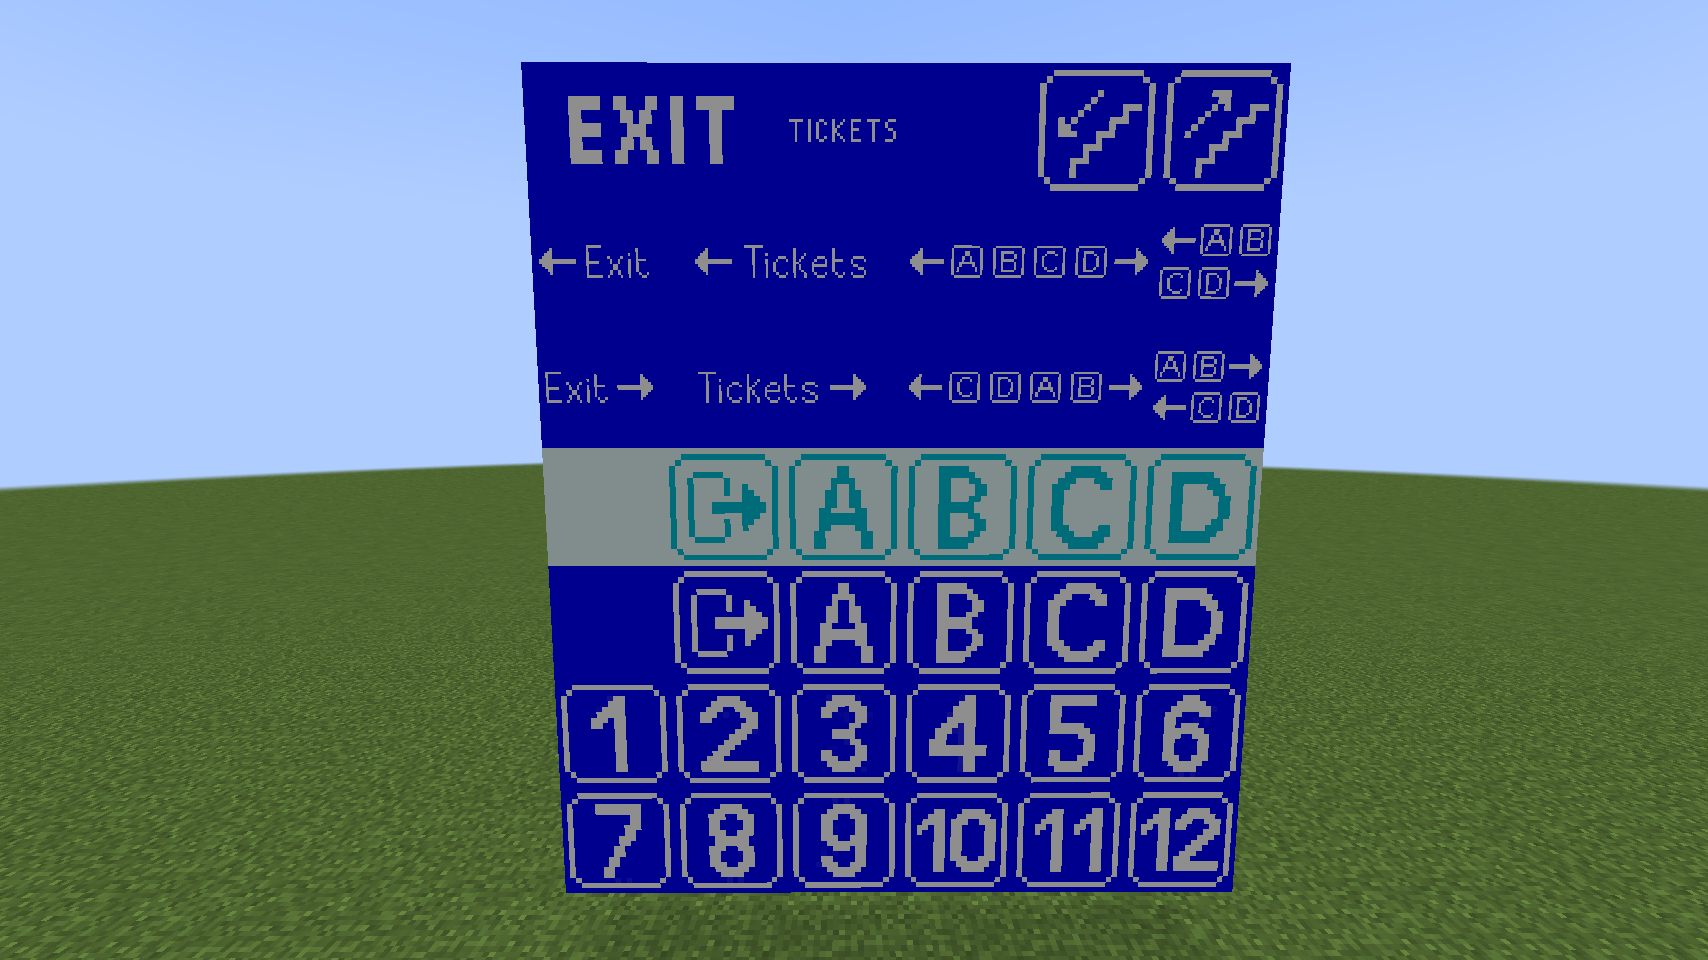
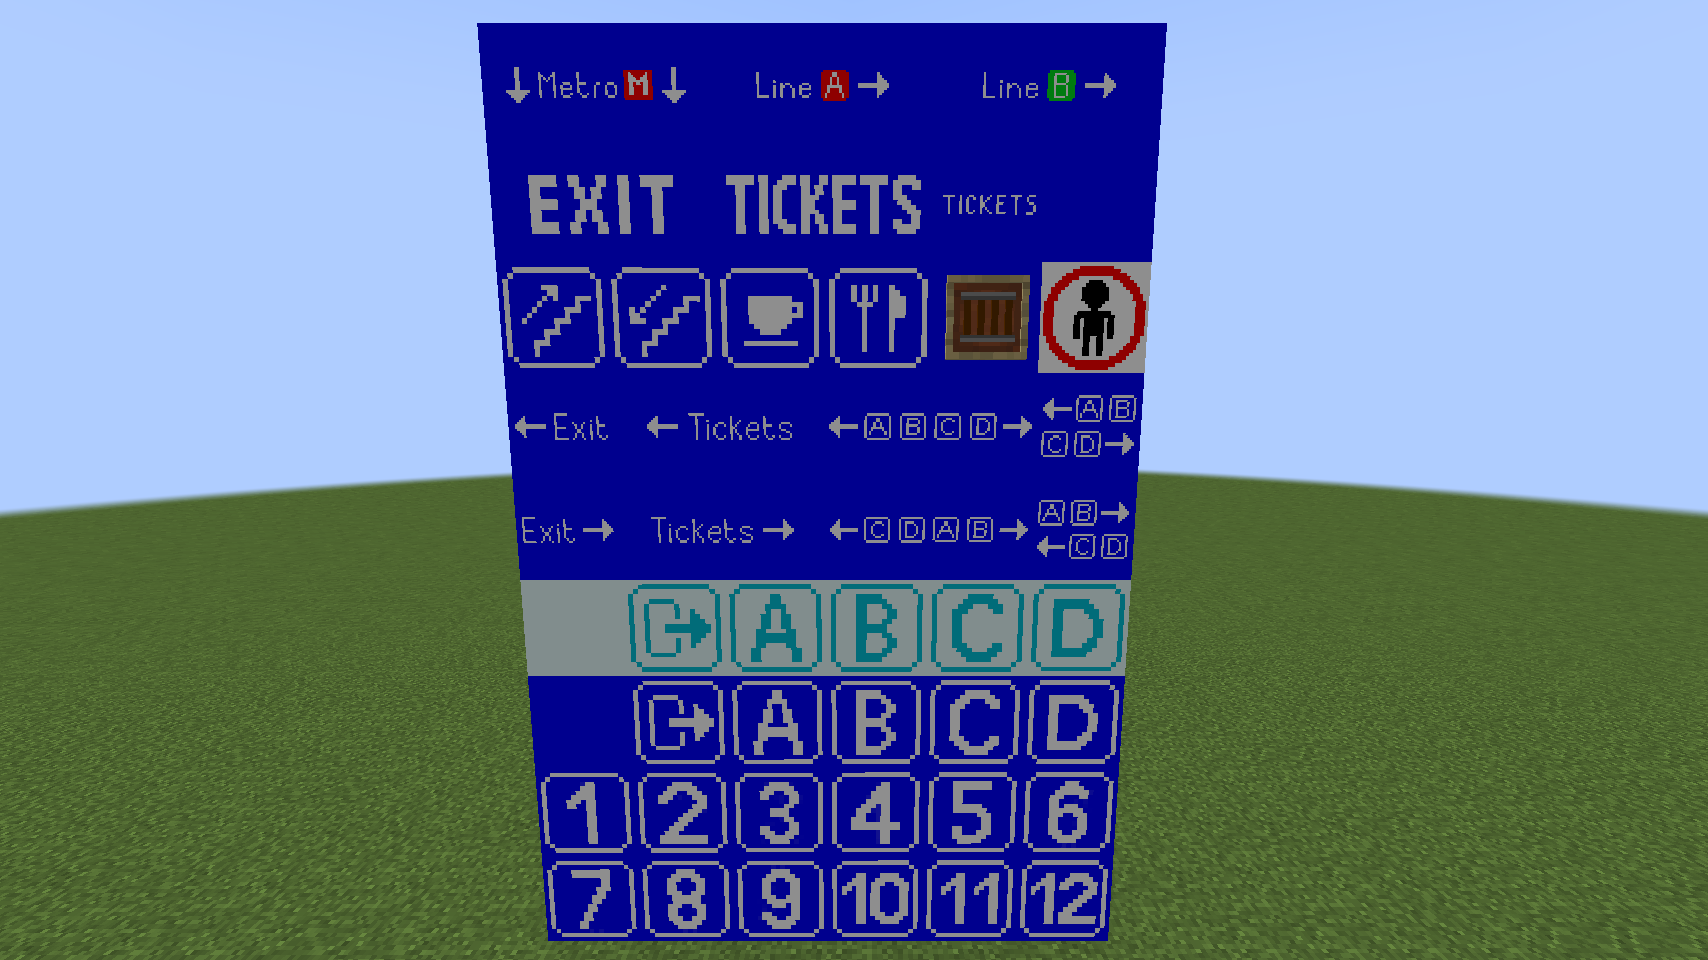
Updates

Changed region(s): [[0.0, 0.0, 1.0, 1.0]]

diff --git a/railwaydecorationsmod/index.html b/railwaydecorationsmod/index.html
@@ -53,13 +53,14 @@
     <li>Platform numbers 1-12</li>
     <li>Zone A-D signs (blue and white)</li>
     <li>Exit signs (blue and white)</li>
-    <li>Large exit sign</li>
+    <li>Large "exit" and "tickets" sign</li>
     <li>Zone A-D indicator signs (either 1 or 2 blocks wide)</li>
     <li>Tickets and Exit indicator signs</li>
     <li>Ticket booth sign</li>
     <li>Staircase signs (ascending and descending)</li>
     <li>Bar and Restaurant signs</li>
     <li>No entry sign</li>
+    <li>Metro station signs (metro entrance sign and lines A and B signs)</li>
   </ul>
 
   <h4>Planned features</h4>
@@ -72,7 +73,11 @@
 
   <h4>Downloads</h4>
   <p>
-    Version 1.0.0b (latest release): <a href="https://github.com/samuele963/railwaydecorationsmod/raw/main/releases/railway-decorations-1.0.0b.jar">Download</a><br>
+    Binary downloads and source files are all available on the <a href="https://github.com/samuele963/railwaydecorationsmod/">GitHub page</a> of the project.
+  </p>
+  <p>
+    Version 1.0.1 (latest release): <a href="https://github.com/samuele963/railwaydecorationsmod/raw/main/releases/railway-decorations-1.0.1.jar">Download</a><br>
+    Version 1.0.0b: <a href="https://github.com/samuele963/railwaydecorationsmod/raw/main/releases/railway-decorations-1.0.0b.jar">Download</a><br>
     Version 1.0.0: <a href="https://github.com/samuele963/railwaydecorationsmod/raw/main/releases/railway-decorations-1.0.0.jar">Download</a>
   </p>
 
